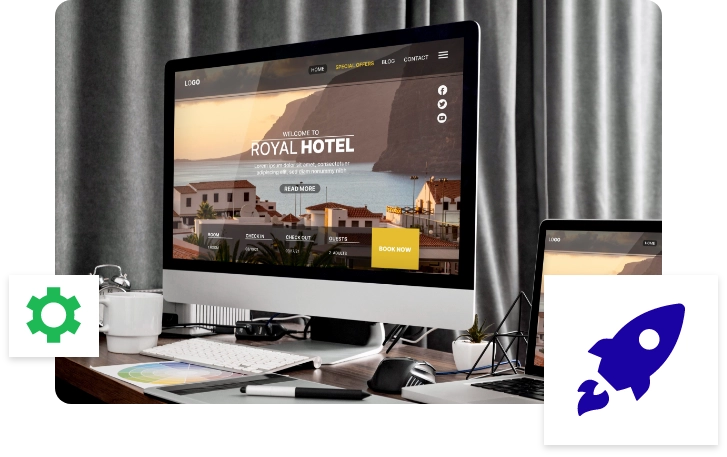
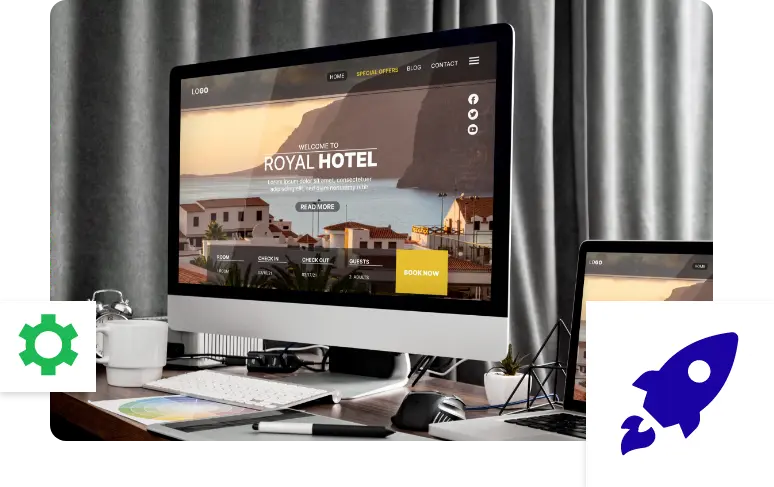
ui fix

diff --git a/src/pages/how-it-works.jsx b/src/pages/how-it-works.jsx
@@ -144,15 +144,15 @@ const HowItWorks = () => {
                 </div>
                 <div className="dBox-2">
                   <img src={ImageConstants.yourDesign1} />
-                  <p>Your Design or Existing Site</p>
+                  <p>Our Design + CMS</p>
                 </div>
                 <div className="dBox-3">
                   <img src={ImageConstants.yourDesign2} />
-                  <p>Your Design or Existing Site</p>
+                  <p>Our Design (Static site)</p>
                 </div>
               </div>
               <div className="laptop-howit-work">
-                <img src={ImageConstants.laptopWeb} />
+                <img src={ImageConstants.laptopWeb} className="img"/>
                   <p>Converted to a blazing fast dotcom by our compiler</p>
               </div>
               <div className="lock-customer-main">
@@ -250,29 +250,40 @@ const HowItWorks = () => {
          <Swiper className="howitWorkslider" {...howitWorkslider}>
         <div className="swiper-wrapper">
           <SwiperSlide>
-            <div className="BoosterSliderBox">
+              <div className="BoosterSliderBox">
+                 <div className="bimg">
               <img
                 width={"100%"}
                 height={"100%"}
                 loading="lazy"
                 src={ImageConstants.HowItWorks1}
                 alt="castrol"
-                />
-                <p className="title"><span>1</span> Collaboration</p>
+                  />
+                </div>
+                <div className="sliderTitle">
+                  <p>1</p>
+                   <h3 className="title"> Collaboration</h3>
+                </div>
                 <p className="Descriptions">Every Thunderbolt customer gets a free discovery call once the order has been placed. This collaboration helps us align with your vision. Define your niche, customer base and strategies. All in all, giving us a deeper understanding allows us to serve the perfect design template for your website.</p>
                
             </div>
           </SwiperSlide>
           <SwiperSlide>
-            <div className="BoosterSliderBox">
+              <div className="BoosterSliderBox">
+                 <div className="bimg">
               <img
                 width={"100%"}
                 height={"100%"}
                 loading="lazy"
                 src={ImageConstants.HowItWorks2}
                 alt="toi"
-                />
-                <p className="title"><span>2</span> Content & design customisations on the fly</p>
+                  />
+                </div>
+                 <div className="sliderTitle">
+                  <p>2</p>
+                   <h3 className="title"> Content & design customisations on the fly</h3>
+                </div>
+              
                 <p className="Descriptions">“Would you like some orange juice?” Or “How about some freshly squeezed pulpy orange juice?” You see what we did there. A well-researched content can influence your decisions and increase your website conversions. Check out our content packages for more information. Just like content, design has its own magic. Once you have your design in place, it’s not the end. You can always revisit your design before stepping into development.</p>
             </div>
           </SwiperSlide>
@@ -286,8 +297,12 @@ const HowItWorks = () => {
                 src={ImageConstants.HowItWorks3}
                 alt="goeres"
                   />
-                  </div>
-                <p className="title"><span>3</span> Website under construction</p>
+                </div>
+                 <div className="sliderTitle">
+                  <p>3</p>
+                   <h3 className="title"> Website under construction</h3>
+                </div>
+              
                 <p className="Descriptions">Your work now here is done! All you need to do is have a seat and sip your coffee while your website is getting faster. We take xx- xx days to get your website ready.</p>
             </div>
           </SwiperSlide>
@@ -301,8 +316,12 @@ const HowItWorks = () => {
                 src={ImageConstants.HowItWorks4}
                 alt="firstpost"
                   />
-                  </div>
-                <p className="title"><span>4</span> Launch</p>
+                </div>
+                 <div className="sliderTitle">
+                  <p>4</p>
+                   <h3 className="title"> Launch</h3>
+                </div>
+             
                 <p className="Descriptions">We will share a link to review your website before we make any final tweaks. Once approved, our team will launch your website following the best industry standards.</p>
             </div>
           </SwiperSlide>
@@ -316,8 +335,12 @@ const HowItWorks = () => {
                 src={ImageConstants.HowItWorks5}
                 alt="l-t"
                   />
-                  </div>
-                <p className="title"><span>5</span> Marketing & technical support</p>
+                </div>
+                 <div className="sliderTitle">
+                  <p>5</p>
+                   <h3 className="title"> Marketing & technical support</h3>
+                </div>
+               
                 <p className="Descriptions">We will take care of your website including code updates, hosting, maintenance, SEO, core web vitals, content updates, etc. With over a decade of experience in the industry, we can definitely help you rank higher, convert more users into customers, and increase revenue. Check out our marketing plans.</p>
             </div>
           </SwiperSlide>

diff --git a/src/styles/style.css b/src/styles/style.css
@@ -2683,16 +2683,19 @@ header {
   position: relative;
   width: 80%;
     margin: 0 auto;
+        margin-right: 11.5%;
 }
 .how-it-work-Box h3{
     font-size: 30px;
     font-family: "aline";
         margin-bottom: 80px;
+        line-height: 45px;
 
 }
 .digital-support-Box img{
   width: 100%;
 }
+
 .dBox-1{
       position: absolute;
     top: 50%;
@@ -2719,7 +2722,11 @@ header {
   width: auto;
 }
 .laptop-howit-work{
-      margin: 50px 0;
+        margin: 50px auto;
+    width: 70%;
+}
+.laptop-howit-work .img{
+  width: 100%;
 }
 .laptop-howit-work p{
       font-size: 16px;
@@ -2739,7 +2746,7 @@ header {
 }
 
 .quick-Secure-Box{
-  box-shadow: 3px 3px 20px #0000001c;
+  /* box-shadow: 3px 3px 20px #0000001c; */
     border: 1px solid #DBDBDB;
     border-radius: 7px;
     width: 70%;
@@ -2810,7 +2817,7 @@ width: 100%;
 .BoosterSliderBox{
   text-align: left;
 }
-.BoosterSliderBox .bimg{
+.BoosterSliderBox .bimg img{
       min-height: 328px;
 }
 .BoosterSliderBox .title{
@@ -2818,19 +2825,27 @@ width: 100%;
     color: #1E2323;
     font-weight: 800;
     font-family: Montserrat;
-        margin: 10px 0 20px;
+        margin: 0 0 20px;
+            width: 90%;
 }
-.BoosterSliderBox .title span{
-    background: #1664F7;
+.BoosterSliderBox .sliderTitle{
+      display: flex;
+    align-items: flex-start;
+    margin-top: 30px;
+        min-height: 80px;
+}
+.BoosterSliderBox .sliderTitle p{
+   background: #1664F7;
     color: #fff;
-    width: 30px;
-    height: 30px;
+       width: 8%;
+    height: 40px;
     display: inline-flex;
     justify-content: center;
     align-items: center;
     border-radius: 50%;
     font-size: 20px;
-        margin-right: 10px;
+    margin-right: 10px;
+    margin-bottom: 0;
 }
 .BoosterSliderBox .Descriptions{
     font-size: 18px;

diff --git a/src/styles/responsive.css b/src/styles/responsive.css
@@ -1061,7 +1061,7 @@
   }
 
   .how-it-works-hero-three {
-    margin-top: 80px;
+    margin-top: 30px;
     height: 470px;
   }
 
@@ -1309,7 +1309,7 @@
 
 @media only screen and (min-width: 768px) and (max-width: 991px) {
 .digital-support-Box{
-  width: 95%;
+  width: 90%;
 }
 .dBox-1 img {
     width: 130px;
@@ -1341,6 +1341,15 @@
 .hiw-hero-three-inside{
       margin-top: 0rem !important;
 }
+.footer-logo-conatiner {
+    padding-left: 0px !important;
+}
+.how-it-works-hero-card{
+      width: 90vw;
+}
+.site-footer{
+      padding-top: 50px;
+}
 }
 @media only screen and (max-width: 767px){
   .how-it-works-heading{
@@ -1352,12 +1361,16 @@
   }
   .how-it-work-Box h3{
     font-size: 20px;
+    margin-bottom: 100px;
+    line-height: 32px;
   }
   .digital-support-Box{
-        width: 100%;
+       margin: 0 auto;
+    margin-right: auto;
   }
   .laptop-howit-work {
-    margin: 90px 0 50px;
+    margin: 40px auto;
+        width: 100%;
 }
  .laptop-howit-work img{
   width: 100%;
@@ -1411,20 +1424,21 @@
     min-height: 210px;
 }
 .dBox-1 {
-    top: 0;
-    left: -70px;
+      top: 0;
+    left: -90px;
 }
 .dBox-1 img{
       width: 100px !important;
 }
 .dBox-2{
-top: 0;
+    top: -40px;
 }
 .dBox-2 img{
   width: 100px !important;
 }
 .dBox-3{
     top: 0;
+        right: -80px;
 }
 .dBox-3 img{
       width: 100px !important;
@@ -1442,10 +1456,17 @@ top: 0;
 }
 .digital-support-Box img {
     width: auto;
-    padding-top: 170px;
+    padding-top: 70px;
         margin: 0 auto;
 }
 .how-it-mob{
   display: block;
+}
+.BoosterSliderBox .bimg img {
+    min-height: 192px;
+}
+.BoosterSliderBox .sliderTitle p{
+      height: 30px;
+      width: 10%;
 }
 }

diff --git a/src/constants/swiperConstants.js b/src/constants/swiperConstants.js
@@ -149,16 +149,16 @@ export const pricingSlider = {
 export const howitWorkslider = {
   observer: true,
   observeParents: true,
-  slidesPerView: 1,
+  slidesPerView: 1.2,
   spaceBetween: 30,
-  loop: false,
-  // autoplay: {
-  //   delay: 2500,
-  //   disableOnInteraction: false,
-  // },
+  loop: this,
+  autoplay: {
+    delay: 5000,
+    disableOnInteraction: false,
+  },
   breakpoints: {
     640: {
-      slidesPerView: 1,
+      slidesPerView: 1.6,
       spaceBetween: 20,
     },
     768: {

diff --git a/src/components/Footer.jsx b/src/components/Footer.jsx
@@ -78,7 +78,7 @@ const Footer = () => {
           </ul>
         </div>
         <div className="col-12 col-md-2"></div>
-        <div className="col-md-2 col-12 px-md-5 px-3">
+        <div className="col-md-2 col-12">
           <div className="canvas-btns">
             <a href="https://dashboard.thunderboltjs.com/" target={"_blank"}>
               <button className="px-md-0 footer-action-btn">Get Started</button>

diff --git a/src/constants/imageConstants.js b/src/constants/imageConstants.js
@@ -64,7 +64,7 @@ import strapiLogo from "../images/strapi-logo.svg";
 import worldIcon from "../images/world-icon.svg";
 import quickWeb from "../images/quick1.webp";
 import quickArrow from "../images/quick-Arrow.svg";
-import digitalSupportMob from "../images/digital-support-mob.svg";
+import digitalSupportMob from "../images/digital-support-mob-new.svg";
 
 export const ImageConstants = {
   serviceHosting,
